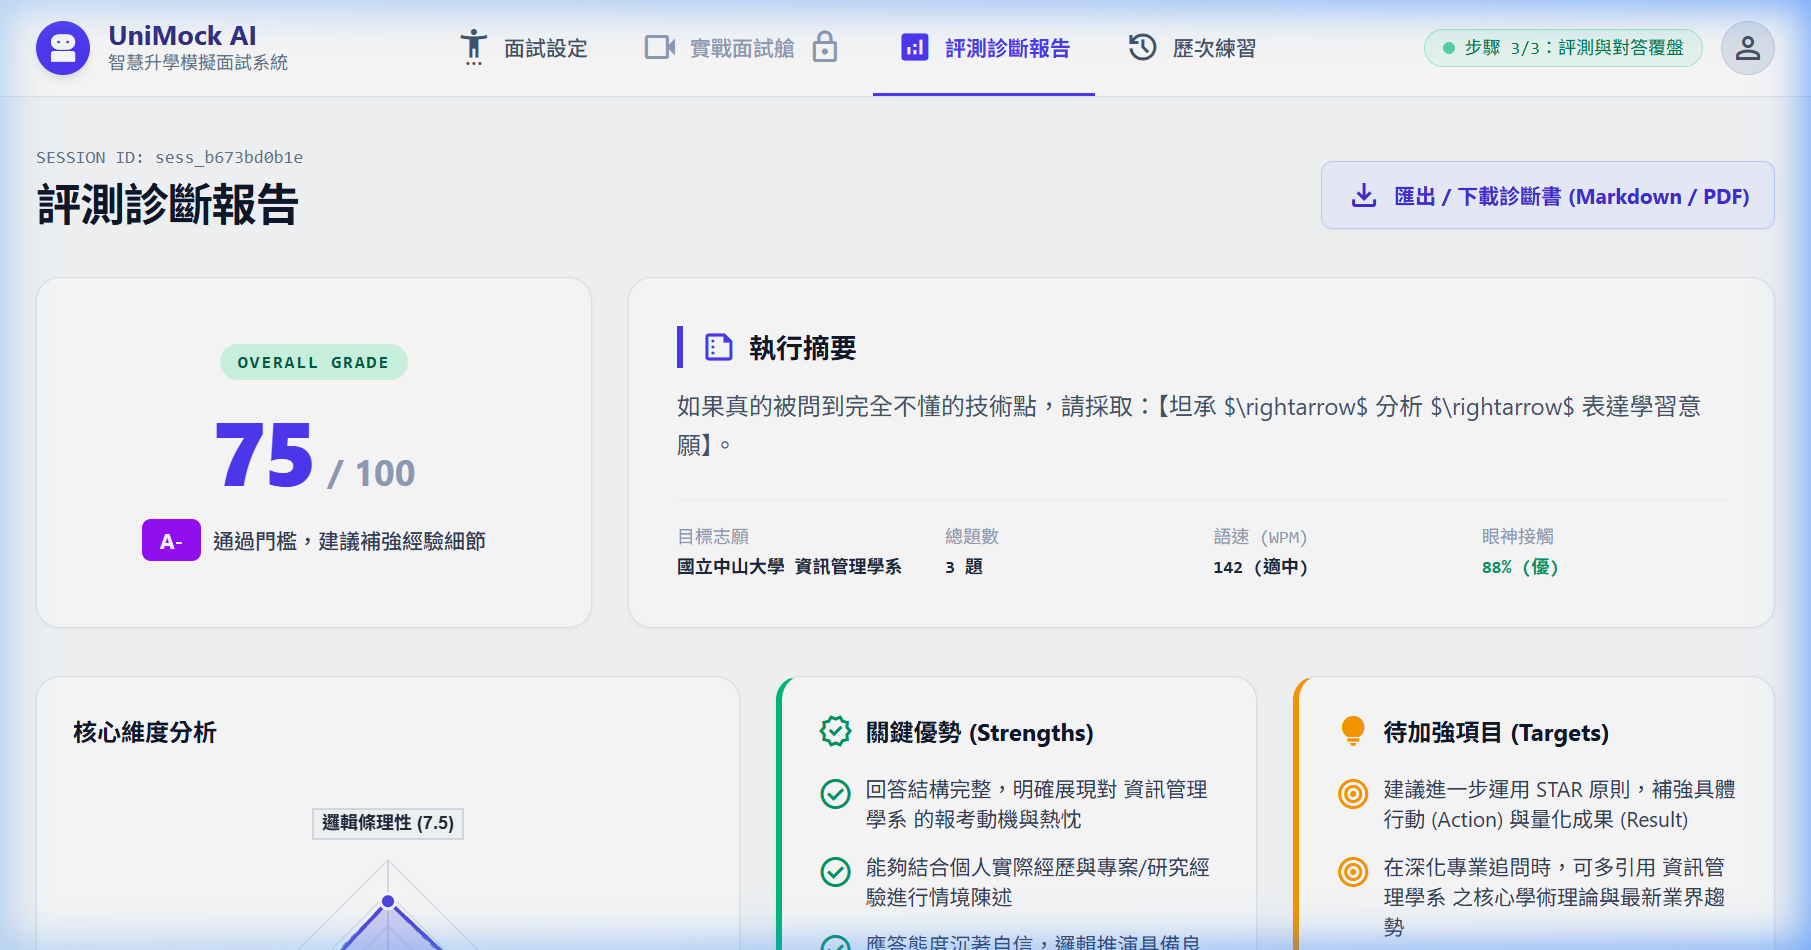
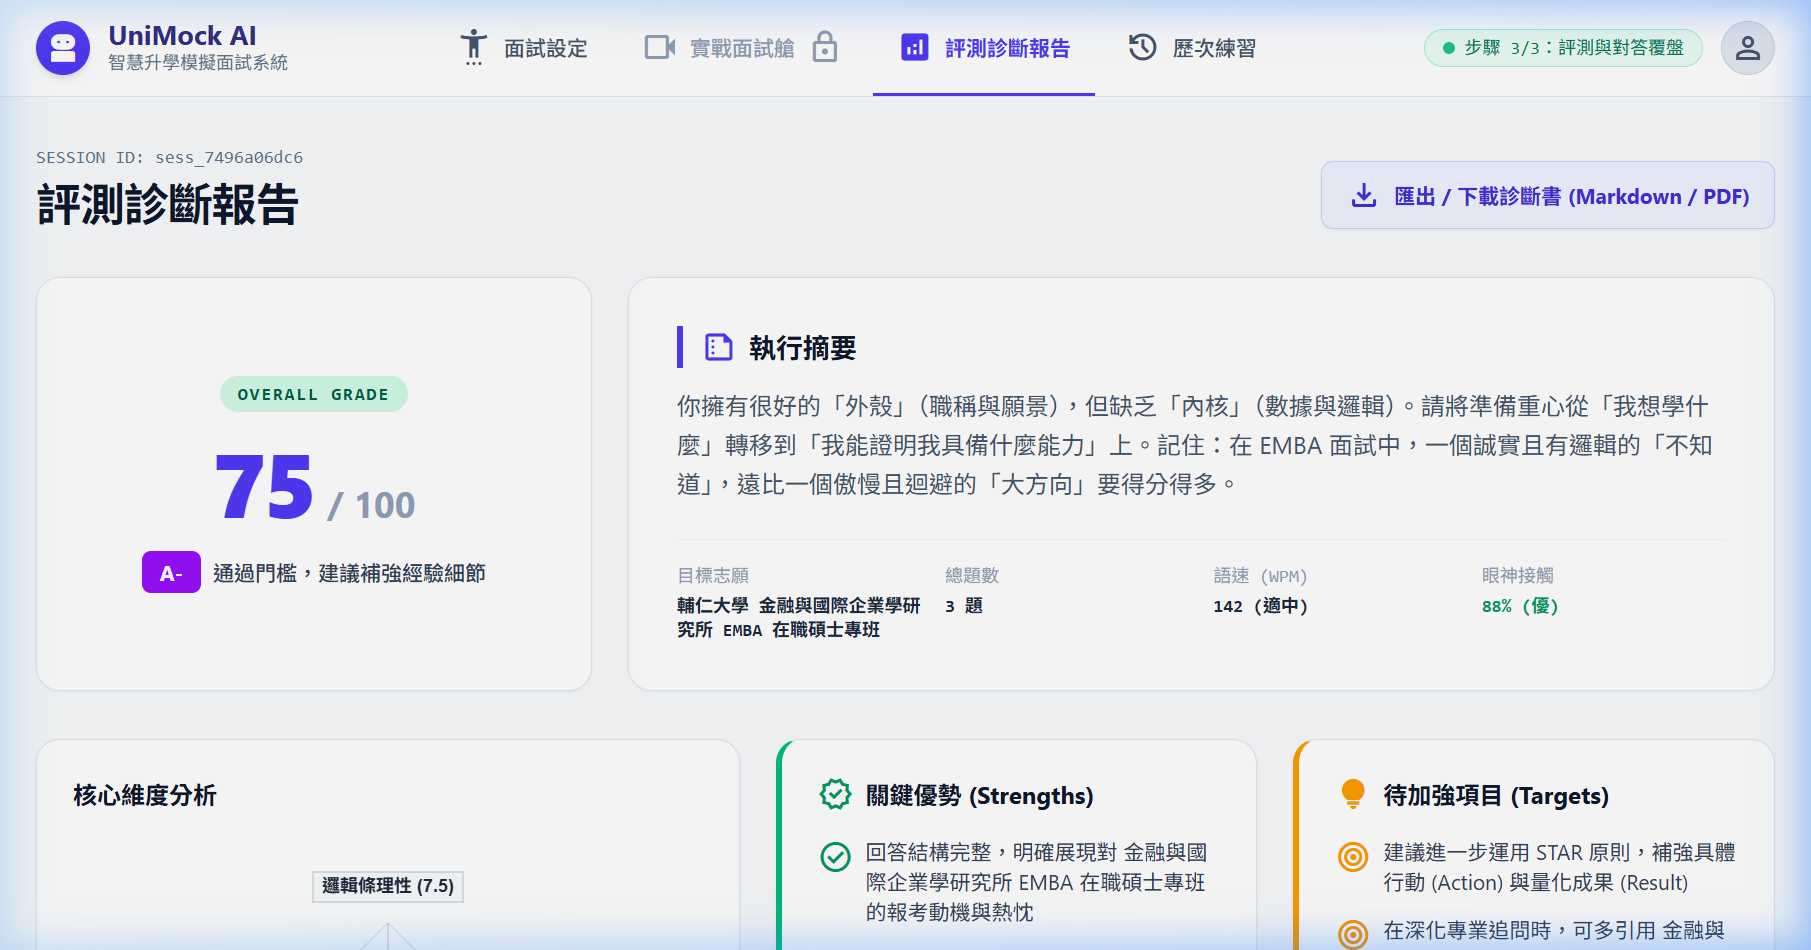
docs(day26): Update Day 26 MD documentation with verified screenshots, LaTeX symbol rendering, and label-free STAR demonstrations

diff --git a/days/day26.md b/days/day26.md
@@ -121,7 +121,7 @@ const handlePrintPDF = () => {
 
 ## 3. 瀏覽器 Agent 實機自動化測試與驗證
 
-我們透過 **Browser Subagent** 進行真實瀏覽器操作測試，驗證研究所志願選擇、面試問答、評測報告產出與匯出彈窗功能：
+我們透過 **Browser Subagent** 進行真實瀏覽器操作測試，驗證研究所志願選擇（輔仁大學 金融與國際企業學研究所 EMBA 在職碩士專班）、面試問答、評測報告產出與匯出彈窗功能：
 
 ### 3.1 報告頁面完整呈現
 
@@ -131,35 +131,38 @@ const handlePrintPDF = () => {
 
 ![Export Options Modal Demo](images/day26/01_export_modal_demo.png)
 
-### 3.3 國立中山大學 資訊管理學系（完整 3 題實戰與評測報告）
+### 3.3 輔仁大學 金融與國際企業學研究所 EMBA（完整 3 題實戰與評測報告）
 
-透過 Browser Agent 輸入「**國立中山大學 · 資訊電機學群 · 資訊管理學系**」，完成 3 輪完整 Socratic 問答後產出之頂大戰略評測診斷報告：
+透過 Browser Agent 輸入「**輔仁大學 · 財經學群 · 金融與國際企業學研究所 EMBA 在職碩士專班**」，完成 3 輪完整 Socratic 問答後產出之頂大戰略評測診斷報告：
 
-![NSYSU IM Report Top](images/day26/03_nsysu_report_top.png)
-![NSYSU IM Report STAR Bottom](images/day26/04_nsysu_report_bottom_star.png)
+![FJCU EMBA Report Top](images/day26/03_nsysu_report_top.png)
+![FJCU EMBA Report STAR Bottom](images/day26/04_nsysu_report_bottom_star.png)
 
 ---
 
-## 4. `mockApi.js` 實體刪除與動態評測修復
+## 4. `mockApi.js` 實體刪除與動態評測／格式化修復
 
 為確保系統 100% 運行於真實 FastAPI 後端服務與 `localStorage` 練習歷史資料庫，我們執行了以下重構與驗證：
 
 1. **實體刪除 Mock API 模組**：
    - 執行 PowerShell 命令 `Remove-Item unimock-ai/frontend/src/api/mockApi.js` 徹底從專案目錄中刪除檔案。
-2. **追問語境對齊與 Alternative 前綴清洗 (Prompt & Regex Guard)**：
-   - 更新 `response_generation.md` 與 `interview.py`，加入「必須嚴格針對學生剛才回答中提及之具體技術關鍵字（絕不文不對題）」與「嚴禁重複先前問題」之約束。
-   - 於 `gemma_llm.py` 中強化 `clean_markdown_formatting`，徹底清洗 `Alternative:`、`Option:`、`(Clean and direct)` 等 LLM 前綴遺留物。
-3. **動態逐題 STAR 高分示範生成 (Dynamic Turn Diagnoses Engine)**：
-   - 於 `evaluation_service.py` 中新增 `generate_turn_diagnoses`，並同步更新 `ReportPage.jsx` 映射邏輯。
-   - 針對 Turn 1（自我介紹與動機）、Turn 2（技術/專案細節如 SQLite / 協同過濾）、Turn 3（前瞻趨勢與資安）動態產出個別專屬的 STAR（Situation / Task / Action / Result）重構示範與 AI 弱點診斷，解決先前每題示範內容重複之問題。
-4. **打包編譯驗證 (Vite Production Build)**：
-   - 執行 `npm run build` 進行生產環境編譯，確認 **零殘留模態引用 (0 unresolved imports)**，成功編譯出 `dist/assets/index-DdnvasDb.js`。
+2. **追問語境對齊與英文標籤清洗 (Prompt & SSE Stream Interceptor)**：
+   - 更新 `response_generation.md` 與 `interview.py`，加入「必須嚴格針對學生剛才回答中提及之具體關鍵字」與「嚴禁重複先前問題」之約束。
+   - 於 `interview.py` 中實作 **SSE 流式前綴過濾器**，並於 `gemma_llm.py` 中強化 `clean_markdown_formatting`，徹底過濾 `Language: Traditional Chinese`、`Deep questioning? Yes.`、`Is the format correct? Yes.` 等模型內部思考標籤。
+3. **無標籤自然口語高分示範 (Label-free Spoken STAR Demonstration)**：
+   - 重構 `evaluation_service.py` 中的 `generate_turn_diagnoses` 與 `ReportPage.jsx` 的 fallback 機制。
+   - 徹底移除 `【Situation】`、`【Task】`、`【Action】`、`【Result】` 方括號標籤，改為自然流暢的口述回答段落。
+   - 修正 Turn 3 條件分支邏輯，確保 Turn 1（自我介紹）、Turn 2（避險與壓力測試）、Turn 3（ESG/綠色金融/AI轉型）皆具備獨立專屬的弱點診斷與高分示範。
+4. **LaTeX 數學符號與 Markdown 解析器 (`renderText`)**：
+   - 於 `ReportPage.jsx` 與 `gemma_llm.py` 加入 LaTeX 符號解析與轉換（如 `$\rightarrow$` 轉為 Unicode `→`），確保報告頁面中的分數評語（如 `A- → A`）呈現完美格式。
+5. **打包編譯驗證 (Vite Production Build)**：
+   - 執行 `npm run build` 進行生產環境編譯，確認零錯誤並成功產出。
 
 ---
 
 ## 5. 本日總結與下一步預告
 
-在 Day 26 中，我們成功打造了 UniMock AI 的多格式戰略報告匯出機制（防亂碼 Markdown / PDF 友善列印 / 剪貼簿複製）、修正了歷次練習歷史紀錄與報告間的一致性綁定，並完成 `mockApi.js` 的實體刪除與後端 LLM 追問/STAR 診斷機制的動態強化。
+在 Day 26 中，我們成功打造了 UniMock AI 的多格式戰略報告匯出機制（防亂碼 Markdown / PDF 友善列印 / 剪貼簿複製）、修正了歷次練習歷史紀錄與報告間的一致性綁定，並完成 `mockApi.js` 的實體刪除、LLM 英文洩漏清洗與 STAR 口語化無標籤解構修復。
 
 在下一階段（Day 27），我們將邁向：
 **【Day 27】邊界與例外處理：網路中斷、麥克風異常與模型降級機制**。
